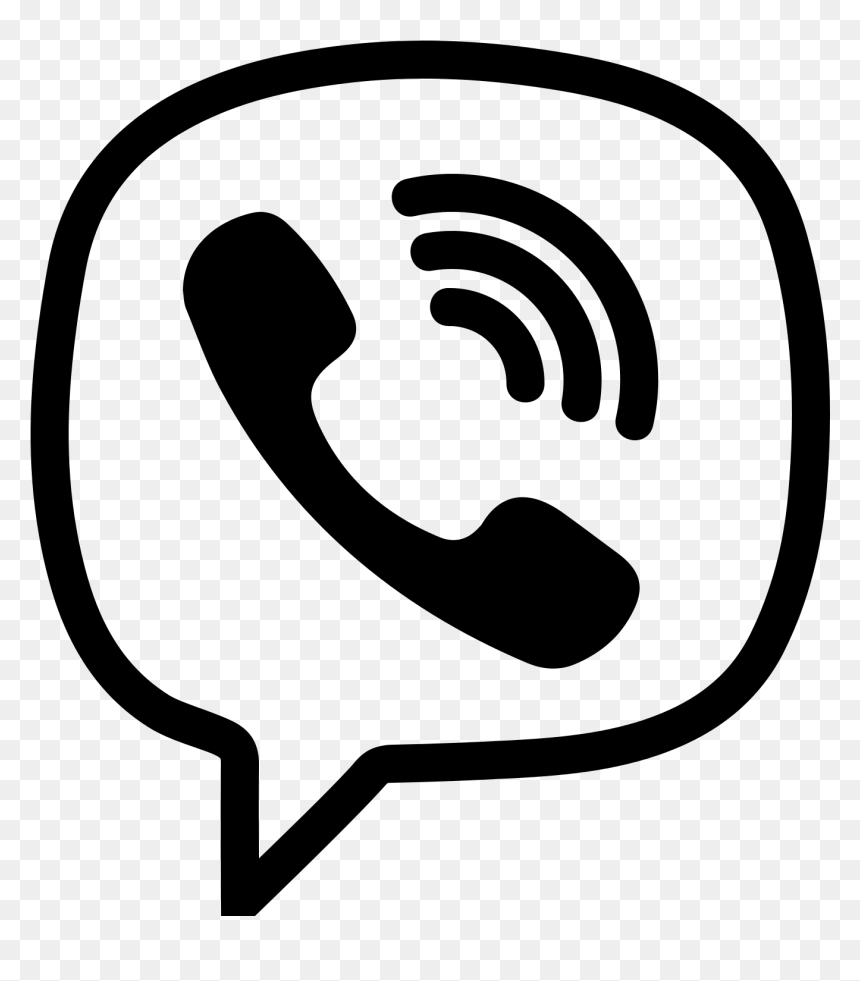
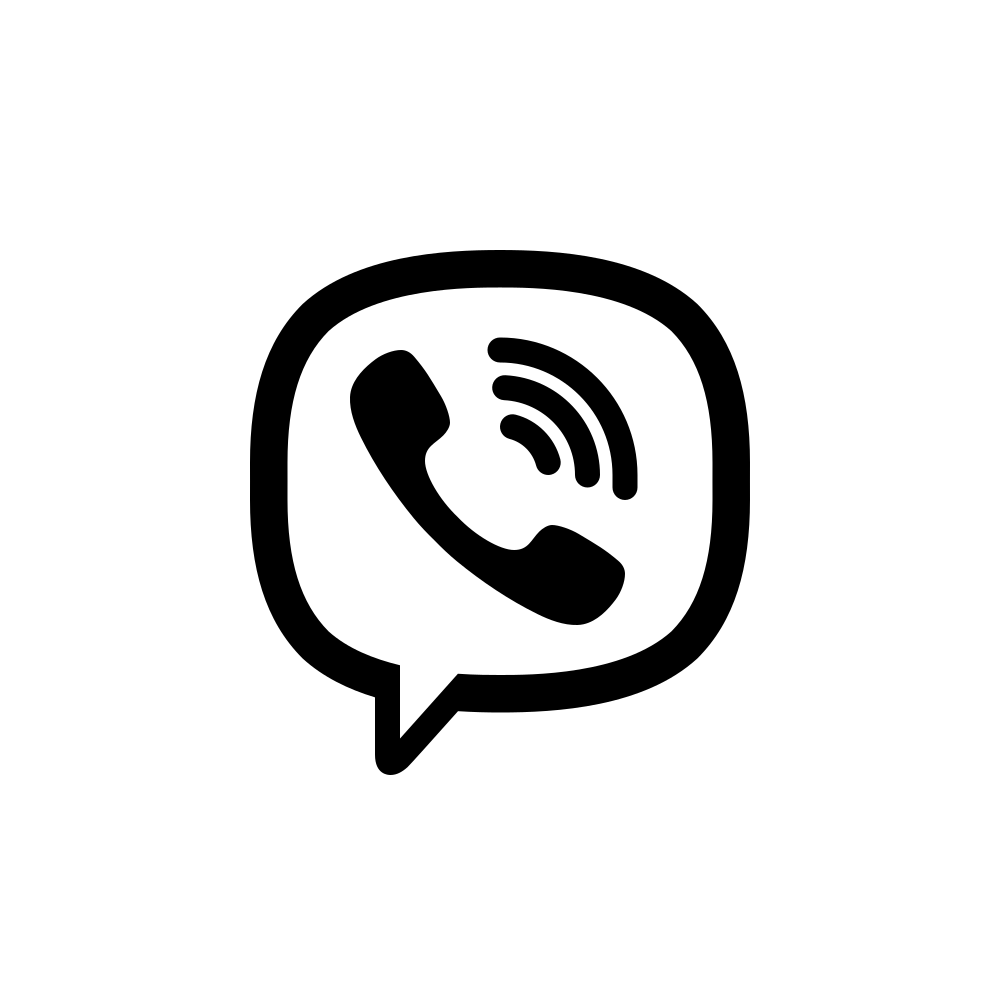
fix: фирменный знак Viber, русские подписи в форме записи и ширина футера
Viber: знак, перерисованный в сетке lucide, не совпадал с фирменным — у
настоящего сплошная трубка и три дуги сигнала. Теперь это маска по
viber-icon.png, собранному из viber.png: поля обрезаны до 80% бокса (та же
оптическая масса, что у соседних lucide-иконок), обводка слегка утолщена —
в оригинале она тоньше lucide-шной и рядом с телеграмом читалась бледнее.
Заливка currentColor, поэтому знак ведёт себя как обычная иконка.

Шапка: Viber, Telegram и переключатель темы вынесены в свою группу с почти
нулевым зазором — при боксе 40px и иконке 20px общий gap-3 разносил сами
знаки больше чем на 30px. В transition у .icon-action заменён transform на
scale: утилита scale-110 в Tailwind v4 пишет отдельное свойство scale, и
увеличение происходило скачком, пока цвет плавно переезжал.

Форма записи: в поле селекта выводился слаг («terapiya») вместо подписи —
у base-ui <Select.Value> без пропа items рисует сырое значение. Списки услуг
и врачей собраны в один массив, он же передан в items и разложен в пункты,
так что подпись в поле и в списке не могут разъехаться. Заодно поправлен тип
onValueChange (отдаёт string | null).

Hero: карточки предложений кликабельны целиком — ссылка одна на весь блок,
кнопка «Подробнее» стала оформленным span, поэтому нет ни вложенных ссылок,
ни оверлея поверх текста.

Футер: max-w-7xl против max-w-6xl у секций — футер торчал по 64px с каждой
стороны. Поля и внутренние отступы приведены к SectionPanel.

Changed region(s): [[0.0302, 0.0306, 0.9674, 0.948]]

diff --git a/components/booking-modal.tsx b/components/booking-modal.tsx
@@ -43,6 +43,27 @@ export function BookingModal() {
   const [state, setState] = React.useState<FormState>('default')
   const [showErrors, setShowErrors] = React.useState(false)
 
+  /*
+   * Списки для селектов держим отдельно и передаём в <Select items>: без
+   * этого пропа base-ui рисует в поле сырое значение, то есть слаг
+   * («terapiya», «ilyushchenko-natalya»), а не подпись. Тот же массив
+   * раскладывается в пункты списка — так подпись в поле и подпись в списке
+   * не могут разъехаться. Варианты «не знаю» / «без предпочтений» лежат
+   * здесь же: у них нет слага в данных, но в поле они тоже должны читаться
+   * по-русски.
+   */
+  const serviceItems = React.useMemo(
+    () => [...serviceSelectOptions, { value: 'ne-znayu', label: 'Не знаю, нужна консультация' }],
+    []
+  )
+  const doctorItems = React.useMemo(
+    () => [
+      ...doctors.map((d) => ({ value: d.slug, label: d.name })),
+      { value: 'bez-predpochteniy', label: 'Без предпочтений' },
+    ],
+    []
+  )
+
   React.useEffect(() => {
     if (isOpen) {
       setSelectedService(service)
@@ -171,8 +192,9 @@ export function BookingModal() {
                 <Field>
                   <FieldLabel htmlFor="booking-service">Услуга</FieldLabel>
                   <Select
+                    items={serviceItems}
                     value={selectedService}
-                    onValueChange={setSelectedService}
+                    onValueChange={(value) => setSelectedService(value ?? undefined)}
                     disabled={state === 'loading'}
                   >
                     <SelectTrigger id="booking-service" className="w-full">
@@ -180,12 +202,11 @@ export function BookingModal() {
                     </SelectTrigger>
                     <SelectContent>
                       <SelectGroup>
-                        {serviceSelectOptions.map((opt) => (
+                        {serviceItems.map((opt) => (
                           <SelectItem key={opt.value} value={opt.value}>
                             {opt.label}
                           </SelectItem>
                         ))}
-                        <SelectItem value="ne-znayu">Не знаю, нужна консультация</SelectItem>
                       </SelectGroup>
                     </SelectContent>
                   </Select>
@@ -194,8 +215,9 @@ export function BookingModal() {
                 <Field>
                   <FieldLabel htmlFor="booking-doctor">Врач</FieldLabel>
                   <Select
+                    items={doctorItems}
                     value={selectedDoctor}
-                    onValueChange={setSelectedDoctor}
+                    onValueChange={(value) => setSelectedDoctor(value ?? undefined)}
                     disabled={state === 'loading'}
                   >
                     <SelectTrigger id="booking-doctor" className="w-full">
@@ -203,12 +225,11 @@ export function BookingModal() {
                     </SelectTrigger>
                     <SelectContent>
                       <SelectGroup>
-                        {doctors.map((d) => (
-                          <SelectItem key={d.slug} value={d.slug}>
-                            {d.name}
+                        {doctorItems.map((d) => (
+                          <SelectItem key={d.value} value={d.value}>
+                            {d.label}
                           </SelectItem>
                         ))}
-                        <SelectItem value="bez-predpochteniy">Без предпочтений</SelectItem>
                       </SelectGroup>
                     </SelectContent>
                   </Select>

diff --git a/components/home/hero-split.tsx b/components/home/hero-split.tsx
@@ -6,7 +6,7 @@ import Image from 'next/image'
 import { ArrowRight, Check, Flame } from 'lucide-react'
 
 import { cn } from '@/lib/utils'
-import { Button } from '@/components/ui/button'
+import { Button, buttonVariants } from '@/components/ui/button'
 import { useBookingModal } from '@/components/booking-modal-provider'
 import type { HeroBadge, HeroOffer } from '@/content/types'
 
@@ -87,7 +87,15 @@ function OfferCard({ offer }: { offer: HeroOffer }) {
   return (
     // Светлая карточка на фоне синей левой: вся секция перестаёт быть одним
     // сплошным цветным блоком, а «чистый» белый работает на ощущение клиники.
-    <div className="relative flex flex-1 flex-col overflow-hidden rounded-3xl bg-[linear-gradient(140deg,var(--card),var(--panel-sky))] p-6 text-card-foreground ring-1 ring-primary/12">
+    // Кликабельна вся карточка, а не только «Подробнее»: ссылка одна на весь
+    // блок, а сама кнопка — оформленный span. Так не появляется вложенных
+    // ссылок и не нужен перекрывающий оверлей, который отбирал бы выделение
+    // текста; кнопка при этом реагирует на наведение по всей карточке через
+    // group-hover.
+    <Link
+      href={offer.href}
+      className="group relative flex flex-1 flex-col overflow-hidden rounded-3xl bg-[linear-gradient(140deg,var(--card),var(--panel-sky))] p-6 text-card-foreground ring-1 ring-primary/12 transition-shadow duration-300 hover:shadow-xl hover:shadow-primary/10 hover:ring-primary/30 focus-visible:ring-3 focus-visible:ring-ring/50 focus-visible:outline-none"
+    >
       {/* Слот под стикер: без рамки, ринга и обрезки — просто область
           200×200px под PNG-стикер без фона (схема имплантации, зубная дуга).
           Крупный и прижат к самому краю карточки — стикер здесь такой же
@@ -100,7 +108,7 @@ function OfferCard({ offer }: { offer: HeroOffer }) {
           alt=""
           fill
           sizes="200px"
-          className="object-contain drop-shadow-xl"
+          className="object-contain drop-shadow-xl transition-transform duration-500 ease-out group-hover:scale-105"
         />
       </div>
 
@@ -122,17 +130,17 @@ function OfferCard({ offer }: { offer: HeroOffer }) {
               <span className="text-sm text-muted-foreground line-through">{offer.oldPrice}</span>
             )}
           </span>
-          <Button
-            variant="secondary"
-            size="sm"
-            render={<Link href={offer.href} />}
-            nativeButton={false}
+          <span
+            className={cn(
+              buttonVariants({ variant: 'secondary', size: 'sm' }),
+              'group-hover:-translate-y-px'
+            )}
           >
             Подробнее
-          </Button>
+          </span>
         </div>
       </div>
-    </div>
+    </Link>
   )
 }
 

diff --git a/components/icons/viber-icon.tsx b/components/icons/viber-icon.tsx
@@ -1,29 +1,19 @@
+import { cn } from '@/lib/utils'
+
 /*
- * Viber-логотип, нарисованный в сетке lucide: viewBox 24, обводка 2, круглые
- * концы. Раньше это была CSS-маска по /images/viber.svg — та картинка нарисована
- * тонким контуром (~0.9px при размере 20px против 1.67px у соседнего Send) и
- * занимала всю высоту бокса, тогда как lucide-иконки оставляют по 2 единицы
- * полей. Из-за этого Viber выглядел светлее телеграма и визуально уезжал вверх:
- * основная масса значка — пузырь — приходилась на верх бокса. Здесь та же
- * сетка и та же толщина, что у Send, поэтому в строке они стоят вровень.
+ * Viber-логотип. Раньше здесь был знак, перерисованный в сетке lucide, — он
+ * не совпадал с фирменным: у настоящего сплошная трубка и три дуги сигнала,
+ * а не тонкая дужка. Теперь это маска по /images/viber-icon.png — он собран
+ * из фирменного знака (public/images/viber.png, там же исходник для
+ * пересборки): поля обрезаны до 80% бокса, то есть до той же оптической
+ * массы, что у соседних lucide-иконок, а обводка слегка утолщена — в
+ * оригинале она тоньше lucide-шной (≈1.16px против 1.67px при size-5) и
+ * рядом с телеграмом знак читался бы бледнее.
+ *
+ * Заливка — currentColor, поэтому иконка меняет цвет вместе с текстом ссылки
+ * ровно так же, как <Send/> рядом: и в покое, и на ховере, и в тёмной теме.
+ * Размер задаётся снаружи через className (size-4 / size-5).
  */
 export function ViberIcon({ className }: { className?: string }) {
-  return (
-    <svg
-      xmlns="http://www.w3.org/2000/svg"
-      viewBox="0 0 24 24"
-      fill="none"
-      stroke="currentColor"
-      strokeWidth={2}
-      strokeLinecap="round"
-      strokeLinejoin="round"
-      className={className}
-      aria-hidden
-    >
-      {/* Пузырь с «хвостом» слева снизу */}
-      <path d="M8 3h8a5 5 0 0 1 5 5v6a5 5 0 0 1-5 5h-5l-4 3.5L8 19a5 5 0 0 1-5-5V8a5 5 0 0 1 5-5Z" />
-      {/* Трубка: два «ушка» по краям и дуга между ними */}
-      <path d="M9.8 8.1a1.3 1.3 0 0 0-1.5 1.7 12 12 0 0 0 5.9 5.9 1.3 1.3 0 0 0 1.7-1.5" />
-    </svg>
-  )
+  return <span aria-hidden className={cn('viber-glyph', className)} />
 }

diff --git a/app/globals.css b/app/globals.css
@@ -328,12 +328,30 @@
    * по-разному.
    */
   .icon-action {
-    @apply inline-flex size-10 shrink-0 items-center justify-center rounded-lg text-muted-foreground transition-[color,background-color,transform] duration-200 hover:scale-110 hover:bg-muted hover:text-primary focus-visible:ring-3 focus-visible:ring-ring/50 focus-visible:outline-none active:scale-95;
+    /* В списке transition именно scale, а не transform: утилита scale-110 в
+       Tailwind v4 пишет отдельное свойство scale, и с transform увеличение
+       происходило скачком, пока цвет плавно переезжал. */
+    @apply inline-flex size-10 shrink-0 items-center justify-center rounded-lg text-muted-foreground transition-[color,background-color,scale] duration-200 hover:scale-110 hover:bg-muted hover:text-primary focus-visible:ring-3 focus-visible:ring-ring/50 focus-visible:outline-none active:scale-95;
   }
   @media (prefers-reduced-motion: reduce) {
     .icon-action {
       @apply hover:scale-100 active:scale-100;
     }
+  }
+
+  /*
+   * Знак Viber (см. components/icons/viber-icon.tsx). Маска, а не svg:
+   * фирменный глиф со сплошной трубкой и дугами сигнала точнее взять из
+   * самой картинки, чем перерисовывать его контурами. Цвет — currentColor,
+   * поэтому знак ведёт себя как обычная иконка: наследует цвет ссылки и
+   * плавно меняется вместе с ней на ховере.
+   */
+  .viber-glyph {
+    display: inline-block;
+    flex-shrink: 0;
+    background-color: currentColor;
+    -webkit-mask: url('/images/viber-icon.png') no-repeat center / contain;
+    mask: url('/images/viber-icon.png') no-repeat center / contain;
   }
 
   /* Круговой бейдж в hero: текст по окружности вращается вокруг статичного центра. */

diff --git a/components/site-header.tsx b/components/site-header.tsx
@@ -252,15 +252,20 @@ export function SiteHeader() {
                 <Phone className="size-5 shrink-0" />
                 <span className="hidden whitespace-nowrap xl:inline">{phone}</span>
               </a>
-              {/* Viber, Telegram и тема — один класс .icon-action на всех трёх,
-                  чтобы наведение вело себя одинаково (см. globals.css). */}
-              <a href={viberHref} aria-label="Viber" className="icon-action">
-                <ViberIcon className="size-5" />
-              </a>
-              <a href={telegramHref} aria-label="Telegram" className="icon-action">
-                <Send className="size-5" />
-              </a>
-              <ThemeToggle />
+              {/* Viber, Telegram и тема — своя группа с почти нулевым зазором:
+                  у .icon-action бокс 40px при иконке 20px, и на общем gap-3
+                  между самими знаками получалось больше 30px — они читались
+                  как три отдельных элемента, а не как один блок. Класс на всех
+                  трёх один, поэтому и наведение у них одинаковое. */}
+              <div className="flex items-center gap-0.5">
+                <a href={viberHref} aria-label="Viber" className="icon-action">
+                  <ViberIcon className="size-5" />
+                </a>
+                <a href={telegramHref} aria-label="Telegram" className="icon-action">
+                  <Send className="size-5" />
+                </a>
+                <ThemeToggle />
+              </div>
               <Button
                 size="lg"
                 className="bg-accent text-accent-foreground hover:bg-accent/90"

diff --git a/components/site-footer.tsx b/components/site-footer.tsx
@@ -46,9 +46,14 @@ export function SiteFooter() {
 
   return (
     // Футер собран той же панелью, что и секции страницы, чтобы низ сайта
-    // не выпадал из общей сетки скруглённых контейнеров.
-    <footer className="px-4 pb-[calc(4rem+env(safe-area-inset-bottom)+1.5rem)] sm:px-6 lg:px-8 lg:pb-6">
-      <div className="mx-auto max-w-7xl rounded-3xl bg-card px-6 py-12 ring-1 ring-border sm:px-8 lg:px-10">
+    // не выпадал из общей сетки скруглённых контейнеров. Поля, максимальная
+    // ширина и внутренние отступы взяты один в один из SectionPanel: раньше
+    // здесь стоял max-w-7xl против max-w-6xl у секций, и футер торчал по
+    // 64px с каждой стороны — на широком экране это было заметно.
+    // Нижний отступ больше обычного: на телефоне под футером висит
+    // фиксированная панель навигации, с lg она пропадает.
+    <footer className="px-3 pt-4 pb-[calc(4rem+env(safe-area-inset-bottom)+1.5rem)] sm:px-6 sm:pt-6 lg:px-8 lg:pb-6">
+      <div className="mx-auto max-w-6xl rounded-3xl bg-card px-5 py-12 ring-1 ring-border sm:px-8 lg:px-12">
         <div className="grid grid-cols-1 gap-10 sm:grid-cols-2 lg:grid-cols-4">
           {/* Brand */}
           <div className="flex flex-col gap-4">
